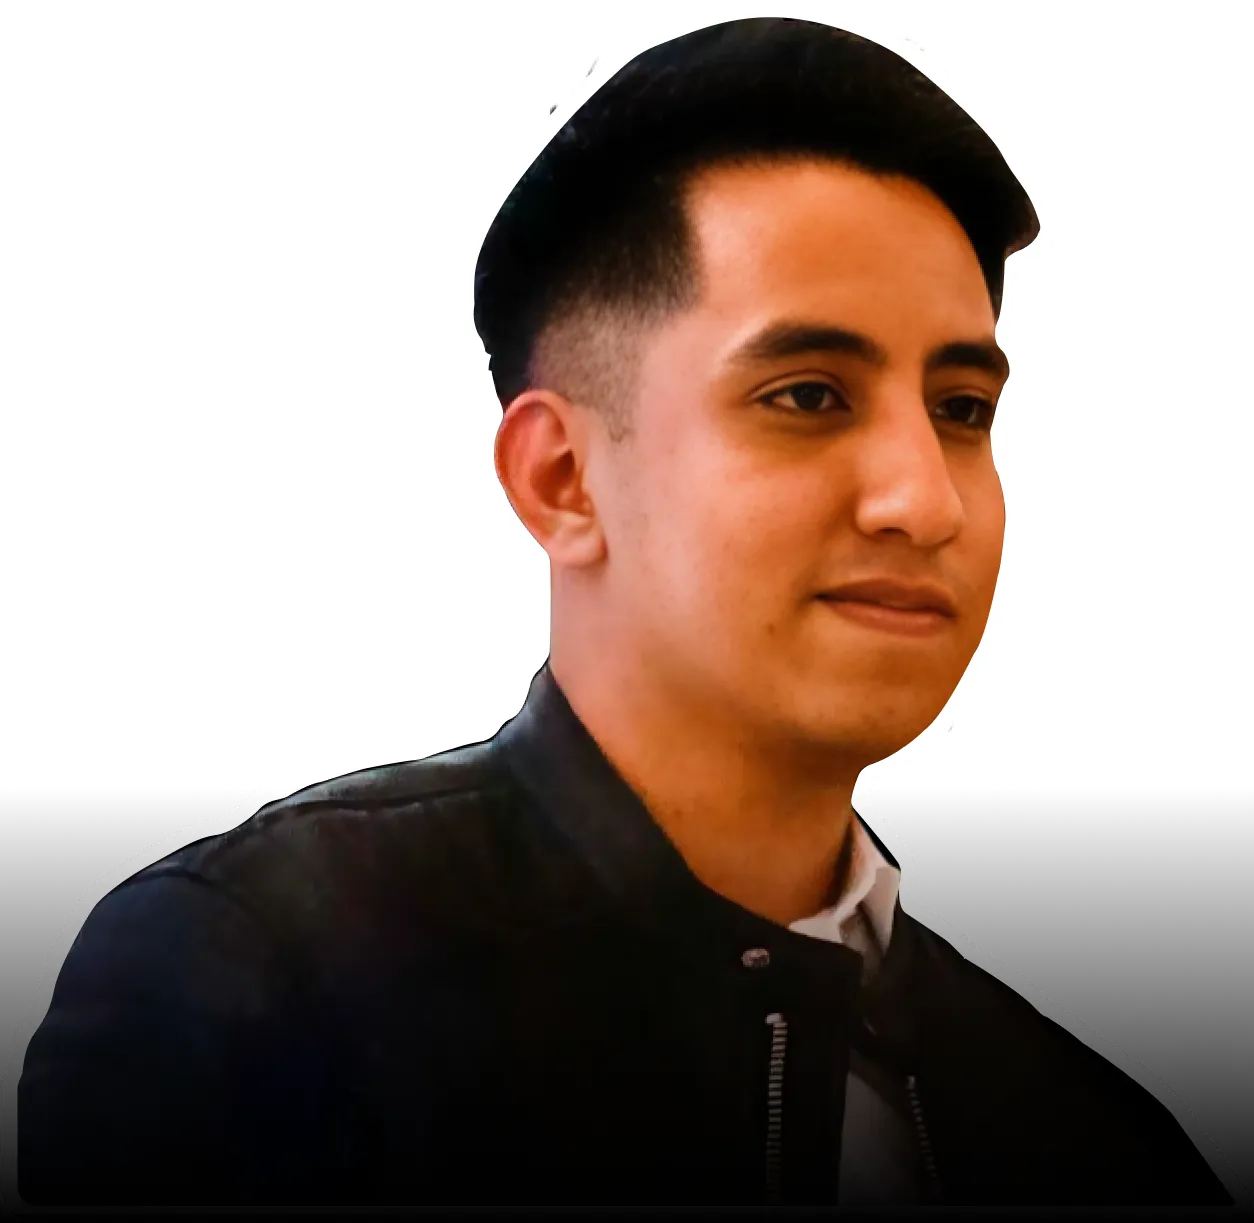
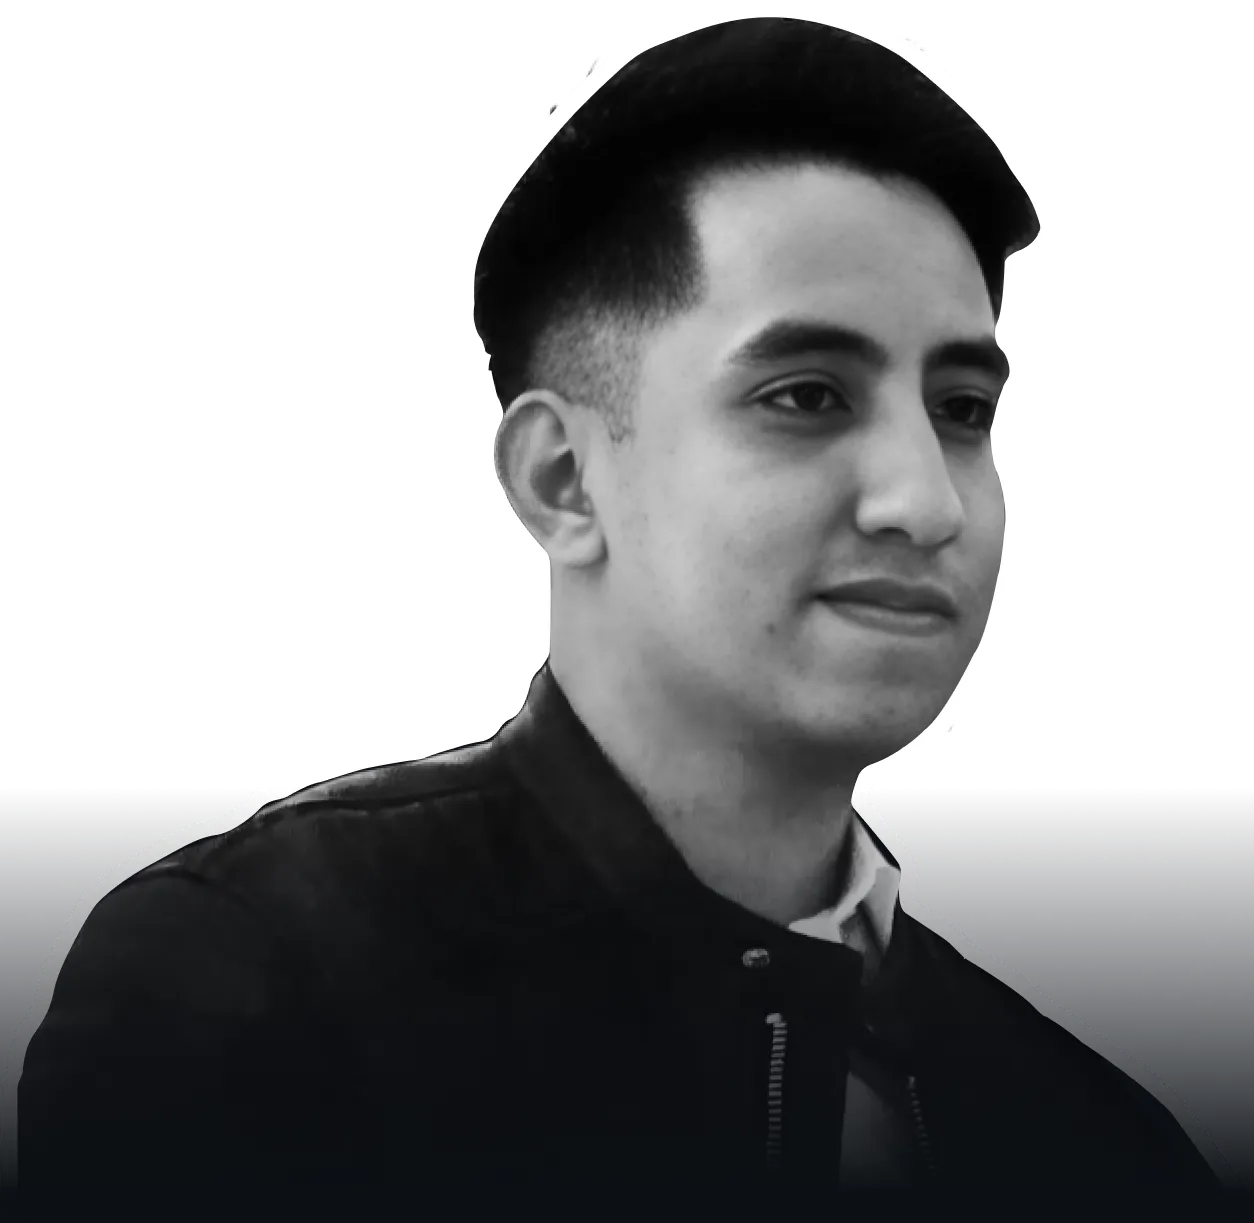
fix background colors

Changed region(s): [[0.3732, 0.1243, 0.8086, 0.7768]]

diff --git a/src/components/contact-dock.tsx b/src/components/contact-dock.tsx
@@ -1,4 +1,3 @@
-import React from 'react'
 import { CodeIcon, HomeIcon, MailIcon } from 'lucide-react'
 import { cn } from '@/lib/utils'
 import { buttonVariants } from '@/components/ui/button'
@@ -11,36 +10,7 @@ import {
 } from '@/components/ui/tooltip'
 import { Dock, DockIcon } from '@/components/ui/dock'
 import { getUserInfo } from '@/services'
-
-export type IconProps = React.HTMLAttributes<SVGElement>
-
-const Icons = {
-	email: (props: IconProps) => <MailIcon {...props} />,
-	linkedin: (props: IconProps) => (
-		<svg
-			viewBox='0 0 24 24'
-			xmlns='http://www.w3.org/2000/svg'
-			{...props}
-		>
-			<title>LinkedIn</title>
-			<path
-				fill='currentColor'
-				d='M20.447 20.452h-3.554v-5.569c0-1.328-.027-3.037-1.852-3.037-1.853 0-2.136 1.445-2.136 2.939v5.667H9.351V9h3.414v1.561h.046c.477-.9 1.637-1.85 3.37-1.85 3.601 0 4.267 2.37 4.267 5.455v6.286zM5.337 7.433c-1.144 0-2.063-.926-2.063-2.065 0-1.138.92-2.063 2.063-2.063 1.14 0 2.064.925 2.064 2.063 0 1.139-.925 2.065-2.064 2.065zm1.782 13.019H3.555V9h3.564v11.452zM22.225 0H1.771C.792 0 0 .774 0 1.729v20.542C0 23.227.792 24 1.771 24h20.451C23.2 24 24 23.227 24 22.271V1.729C24 .774 23.2 0 22.222 0h.003z'
-			/>
-		</svg>
-	),
-	github: (props: IconProps) => (
-		<svg
-			viewBox='0 0 438.549 438.549'
-			{...props}
-		>
-			<path
-				fill='currentColor'
-				d='M409.132 114.573c-19.608-33.596-46.205-60.194-79.798-79.8-33.598-19.607-70.277-29.408-110.063-29.408-39.781 0-76.472 9.804-110.063 29.408-33.596 19.605-60.192 46.204-79.8 79.8C9.803 148.168 0 184.854 0 224.63c0 47.78 13.94 90.745 41.827 128.906 27.884 38.164 63.906 64.572 108.063 79.227 5.14.954 8.945.283 11.419-1.996 2.475-2.282 3.711-5.14 3.711-8.562 0-.571-.049-5.708-.144-15.417a2549.81 2549.81 0 01-.144-25.406l-6.567 1.136c-4.187.767-9.469 1.092-15.846 1-6.374-.089-12.991-.757-19.842-1.999-6.854-1.231-13.229-4.086-19.13-8.559-5.898-4.473-10.085-10.328-12.56-17.556l-2.855-6.57c-1.903-4.374-4.899-9.233-8.992-14.559-4.093-5.331-8.232-8.945-12.419-10.848l-1.999-1.431c-1.332-.951-2.568-2.098-3.711-3.429-1.142-1.331-1.997-2.663-2.568-3.997-.572-1.335-.098-2.43 1.427-3.289 1.525-.859 4.281-1.276 8.28-1.276l5.708.853c3.807.763 8.516 3.042 14.133 6.851 5.614 3.806 10.229 8.754 13.846 14.842 4.38 7.806 9.657 13.754 15.846 17.847 6.184 4.093 12.419 6.136 18.699 6.136 6.28 0 11.704-.476 16.274-1.423 4.565-.952 8.848-2.383 12.847-4.285 1.713-12.758 6.377-22.559 13.988-29.41-10.848-1.14-20.601-2.857-29.264-5.14-8.658-2.286-17.605-5.996-26.835-11.14-9.235-5.137-16.896-11.516-22.985-19.126-6.09-7.614-11.088-17.61-14.987-29.979-3.901-12.374-5.852-26.648-5.852-42.826 0-23.035 7.52-42.637 22.557-58.817-7.044-17.318-6.379-36.732 1.997-58.24 5.52-1.715 13.706-.428 24.554 3.853 10.85 4.283 18.794 7.952 23.84 10.994 5.046 3.041 9.089 5.618 12.135 7.708 17.705-4.947 35.976-7.421 54.818-7.421s37.117 2.474 54.823 7.421l10.849-6.849c7.419-4.57 16.18-8.758 26.262-12.565 10.088-3.805 17.802-4.853 23.134-3.138 8.562 21.509 9.325 40.922 2.279 58.24 15.036 16.18 22.559 35.787 22.559 58.817 0 16.178-1.958 30.497-5.853 42.966-3.9 12.471-8.941 22.457-15.125 29.979-6.191 7.521-13.901 13.85-23.131 18.986-9.232 5.14-18.182 8.85-26.84 11.136-8.662 2.286-18.415 4.004-29.263 5.146 9.894 8.562 14.842 22.077 14.842 40.539v60.237c0 3.422 1.19 6.279 3.572 8.562 2.379 2.279 6.136 2.95 11.276 1.995 44.163-14.653 80.185-41.062 108.068-79.226 27.88-38.161 41.825-81.126 41.825-128.906-.01-39.771-9.818-76.454-29.414-110.049z'
-			></path>
-		</svg>
-	)
-}
+import { Icons } from './icons/icons'
 
 const user = getUserInfo()
 
@@ -64,7 +34,7 @@ const DATA = {
 			email: {
 				name: 'Send Email',
 				url: user.links.email,
-				icon: Icons.email
+				icon: MailIcon
 			}
 		}
 	}
@@ -74,7 +44,10 @@ export function ContactDock() {
 	return (
 		<div className='relative'>
 			<TooltipProvider>
-				<Dock direction='middle' className='bg-background'>
+				<Dock
+					direction='middle'
+					className='bg-background'
+				>
 					{DATA.navbar.map((item) => (
 						<DockIcon key={item.label}>
 							<Tooltip>

diff --git a/src/components/ui/shine-border.tsx b/src/components/ui/shine-border.tsx
@@ -1,16 +1,16 @@
-"use client";
+'use client'
 
-import { cn } from "@/lib/utils";
+import { cn } from '@/lib/utils'
 
-type TColorProp = string | string[];
+type TColorProp = string | string[]
 
 interface ShineBorderProps {
-  borderRadius?: number;
-  borderWidth?: number;
-  duration?: number;
-  color?: TColorProp;
-  className?: string;
-  children: React.ReactNode;
+	borderRadius?: number
+	borderWidth?: number
+	duration?: number
+	color?: TColorProp
+	className?: string
+	children: React.ReactNode
 }
 
 /**
@@ -24,38 +24,38 @@ interface ShineBorderProps {
  * @param children contains react node elements.
  */
 export default function ShineBorder({
-  borderRadius = 8,
-  borderWidth = 1,
-  duration = 14,
-  color = "#000000",
-  className,
-  children,
+	borderRadius = 8,
+	borderWidth = 1,
+	duration = 14,
+	color = '#000000',
+	className,
+	children
 }: ShineBorderProps) {
-  return (
-    <div
-      style={
-        {
-          "--border-radius": `${borderRadius}px`,
-        } as React.CSSProperties
-      }
-      className={cn(
-        "relative grid min-h-[60px] w-fit min-w-[300px] place-items-center rounded-[--border-radius] bg-white p-3 text-black dark:bg-black dark:text-white",
-        className,
-      )}
-    >
-      <div
-        style={
-          {
-            "--border-width": `${borderWidth}px`,
-            "--border-radius": `${borderRadius}px`,
-            "--duration": `${duration}s`,
-            "--mask-linear-gradient": `linear-gradient(#fff 0 0) content-box, linear-gradient(#fff 0 0)`,
-            "--background-radial-gradient": `radial-gradient(transparent,transparent, ${color instanceof Array ? color.join(",") : color},transparent,transparent)`,
-          } as React.CSSProperties
-        }
-        className={`before:bg-shine-size before:absolute before:inset-0 before:aspect-square before:size-full before:rounded-[--border-radius] before:p-[--border-width] before:will-change-[background-position] before:content-[""] before:![-webkit-mask-composite:xor] before:![mask-composite:exclude] before:[background-image:--background-radial-gradient] before:[background-size:300%_300%] before:[mask:--mask-linear-gradient] motion-safe:before:animate-shine`}
-      ></div>
-      {children}
-    </div>
-  );
+	return (
+		<div
+			style={
+				{
+					'--border-radius': `${borderRadius}px`
+				} as React.CSSProperties
+			}
+			className={cn(
+				'relative grid min-h-[60px] w-fit min-w-[300px] place-items-center rounded-[--border-radius] p-3 dark:bg-background dark:text-foreground',
+				className
+			)}
+		>
+			<div
+				style={
+					{
+						'--border-width': `${borderWidth}px`,
+						'--border-radius': `${borderRadius}px`,
+						'--duration': `${duration}s`,
+						'--mask-linear-gradient': `linear-gradient(#fff 0 0) content-box, linear-gradient(#fff 0 0)`,
+						'--background-radial-gradient': `radial-gradient(transparent,transparent, ${color instanceof Array ? color.join(',') : color},transparent,transparent)`
+					} as React.CSSProperties
+				}
+				className={`before:bg-shine-size before:absolute before:inset-0 before:aspect-square before:size-full before:rounded-[--border-radius] before:p-[--border-width] before:will-change-[background-position] before:content-[""] before:![-webkit-mask-composite:xor] before:[background-image:--background-radial-gradient] before:[background-size:300%_300%] before:![mask-composite:exclude] before:[mask:--mask-linear-gradient] motion-safe:before:animate-shine`}
+			></div>
+			{children}
+		</div>
+	)
 }

diff --git a/src/components/icons/icons.tsx b/src/components/icons/icons.tsx
@@ -1,0 +1,28 @@
+export type IconProps = React.HTMLAttributes<SVGElement>
+
+export const Icons = {
+	linkedin: (props: IconProps) => (
+		<svg
+			viewBox='0 0 24 24'
+			xmlns='http://www.w3.org/2000/svg'
+			{...props}
+		>
+			<title>LinkedIn</title>
+			<path
+				fill='currentColor'
+				d='M20.447 20.452h-3.554v-5.569c0-1.328-.027-3.037-1.852-3.037-1.853 0-2.136 1.445-2.136 2.939v5.667H9.351V9h3.414v1.561h.046c.477-.9 1.637-1.85 3.37-1.85 3.601 0 4.267 2.37 4.267 5.455v6.286zM5.337 7.433c-1.144 0-2.063-.926-2.063-2.065 0-1.138.92-2.063 2.063-2.063 1.14 0 2.064.925 2.064 2.063 0 1.139-.925 2.065-2.064 2.065zm1.782 13.019H3.555V9h3.564v11.452zM22.225 0H1.771C.792 0 0 .774 0 1.729v20.542C0 23.227.792 24 1.771 24h20.451C23.2 24 24 23.227 24 22.271V1.729C24 .774 23.2 0 22.222 0h.003z'
+			/>
+		</svg>
+	),
+	github: (props: IconProps) => (
+		<svg
+			viewBox='0 0 438.549 438.549'
+			{...props}
+		>
+			<path
+				fill='currentColor'
+				d='M409.132 114.573c-19.608-33.596-46.205-60.194-79.798-79.8-33.598-19.607-70.277-29.408-110.063-29.408-39.781 0-76.472 9.804-110.063 29.408-33.596 19.605-60.192 46.204-79.8 79.8C9.803 148.168 0 184.854 0 224.63c0 47.78 13.94 90.745 41.827 128.906 27.884 38.164 63.906 64.572 108.063 79.227 5.14.954 8.945.283 11.419-1.996 2.475-2.282 3.711-5.14 3.711-8.562 0-.571-.049-5.708-.144-15.417a2549.81 2549.81 0 01-.144-25.406l-6.567 1.136c-4.187.767-9.469 1.092-15.846 1-6.374-.089-12.991-.757-19.842-1.999-6.854-1.231-13.229-4.086-19.13-8.559-5.898-4.473-10.085-10.328-12.56-17.556l-2.855-6.57c-1.903-4.374-4.899-9.233-8.992-14.559-4.093-5.331-8.232-8.945-12.419-10.848l-1.999-1.431c-1.332-.951-2.568-2.098-3.711-3.429-1.142-1.331-1.997-2.663-2.568-3.997-.572-1.335-.098-2.43 1.427-3.289 1.525-.859 4.281-1.276 8.28-1.276l5.708.853c3.807.763 8.516 3.042 14.133 6.851 5.614 3.806 10.229 8.754 13.846 14.842 4.38 7.806 9.657 13.754 15.846 17.847 6.184 4.093 12.419 6.136 18.699 6.136 6.28 0 11.704-.476 16.274-1.423 4.565-.952 8.848-2.383 12.847-4.285 1.713-12.758 6.377-22.559 13.988-29.41-10.848-1.14-20.601-2.857-29.264-5.14-8.658-2.286-17.605-5.996-26.835-11.14-9.235-5.137-16.896-11.516-22.985-19.126-6.09-7.614-11.088-17.61-14.987-29.979-3.901-12.374-5.852-26.648-5.852-42.826 0-23.035 7.52-42.637 22.557-58.817-7.044-17.318-6.379-36.732 1.997-58.24 5.52-1.715 13.706-.428 24.554 3.853 10.85 4.283 18.794 7.952 23.84 10.994 5.046 3.041 9.089 5.618 12.135 7.708 17.705-4.947 35.976-7.421 54.818-7.421s37.117 2.474 54.823 7.421l10.849-6.849c7.419-4.57 16.18-8.758 26.262-12.565 10.088-3.805 17.802-4.853 23.134-3.138 8.562 21.509 9.325 40.922 2.279 58.24 15.036 16.18 22.559 35.787 22.559 58.817 0 16.178-1.958 30.497-5.853 42.966-3.9 12.471-8.941 22.457-15.125 29.979-6.191 7.521-13.901 13.85-23.131 18.986-9.232 5.14-18.182 8.85-26.84 11.136-8.662 2.286-18.415 4.004-29.263 5.146 9.894 8.562 14.842 22.077 14.842 40.539v60.237c0 3.422 1.19 6.279 3.572 8.562 2.379 2.279 6.136 2.95 11.276 1.995 44.163-14.653 80.185-41.062 108.068-79.226 27.88-38.161 41.825-81.126 41.825-128.906-.01-39.771-9.818-76.454-29.414-110.049z'
+			></path>
+		</svg>
+	)
+}

diff --git a/src/styles/index.css b/src/styles/index.css
@@ -37,11 +37,11 @@
 
   :root {
     --background: 0 0% 100%;
-    --foreground: 0 0% 3.9%;
+    --foreground: 218 25% 6%;
     --card: 0 0% 100%;
-    --card-foreground: 0 0% 3.9%;
+    --card-foreground: 218 25% 6%;
     --popover: 0 0% 100%;
-    --popover-foreground: 0 0% 3.9%;
+    --popover-foreground: 218 25% 6%;
     --primary: 0 0% 9%;
     --primary-foreground: 0 0% 98%;
     --secondary: 0 0% 96.1%;
@@ -53,8 +53,9 @@
     --destructive: 0 84.2% 60.2%;
     --destructive-foreground: 0 0% 98%;
     --border: 0 0% 89.8%;
+    --border-radius: 0.5rem;
     --input: 0 0% 89.8%;
-    --ring: 0 0% 3.9%;
+    --ring: 218 25% 6%;
     --chart-1: 12 76% 61%;
     --chart-2: 173 58% 39%;
     --chart-3: 197 37% 24%;
@@ -64,11 +65,11 @@
   }
 
   .dark {
-    --background: 0 0% 0%;
+    --background: 218 25% 6%;
     --foreground: 0 0% 98%;
-    --card: 0 0% 3.9%;
+    --card: 218 25% 6%;
     --card-foreground: 0 0% 98%;
-    --popover: 0 0% 3.9%;
+    --popover: 218 25% 6%;
     --popover-foreground: 0 0% 98%;
     --primary: 0 0% 98%;
     --primary-foreground: 0 0% 9%;
@@ -81,6 +82,7 @@
     --destructive: 0 62.8% 30.6%;
     --destructive-foreground: 0 0% 98%;
     --border: 0 0% 14.9%;
+    --border-radius: 0.5rem;
     --input: 0 0% 14.9%;
     --ring: 0 0% 83.1%;
     --chart-1: 220 70% 50%;

diff --git a/src/components/banner.tsx b/src/components/banner.tsx
@@ -49,7 +49,7 @@ export const Banner = () => {
 						alt='me'
 						width={270}
 						height={300}
-						className='contrast-125 saturate-0'
+						className=''
 					/>
 				</div>
 			</BlurFade>
